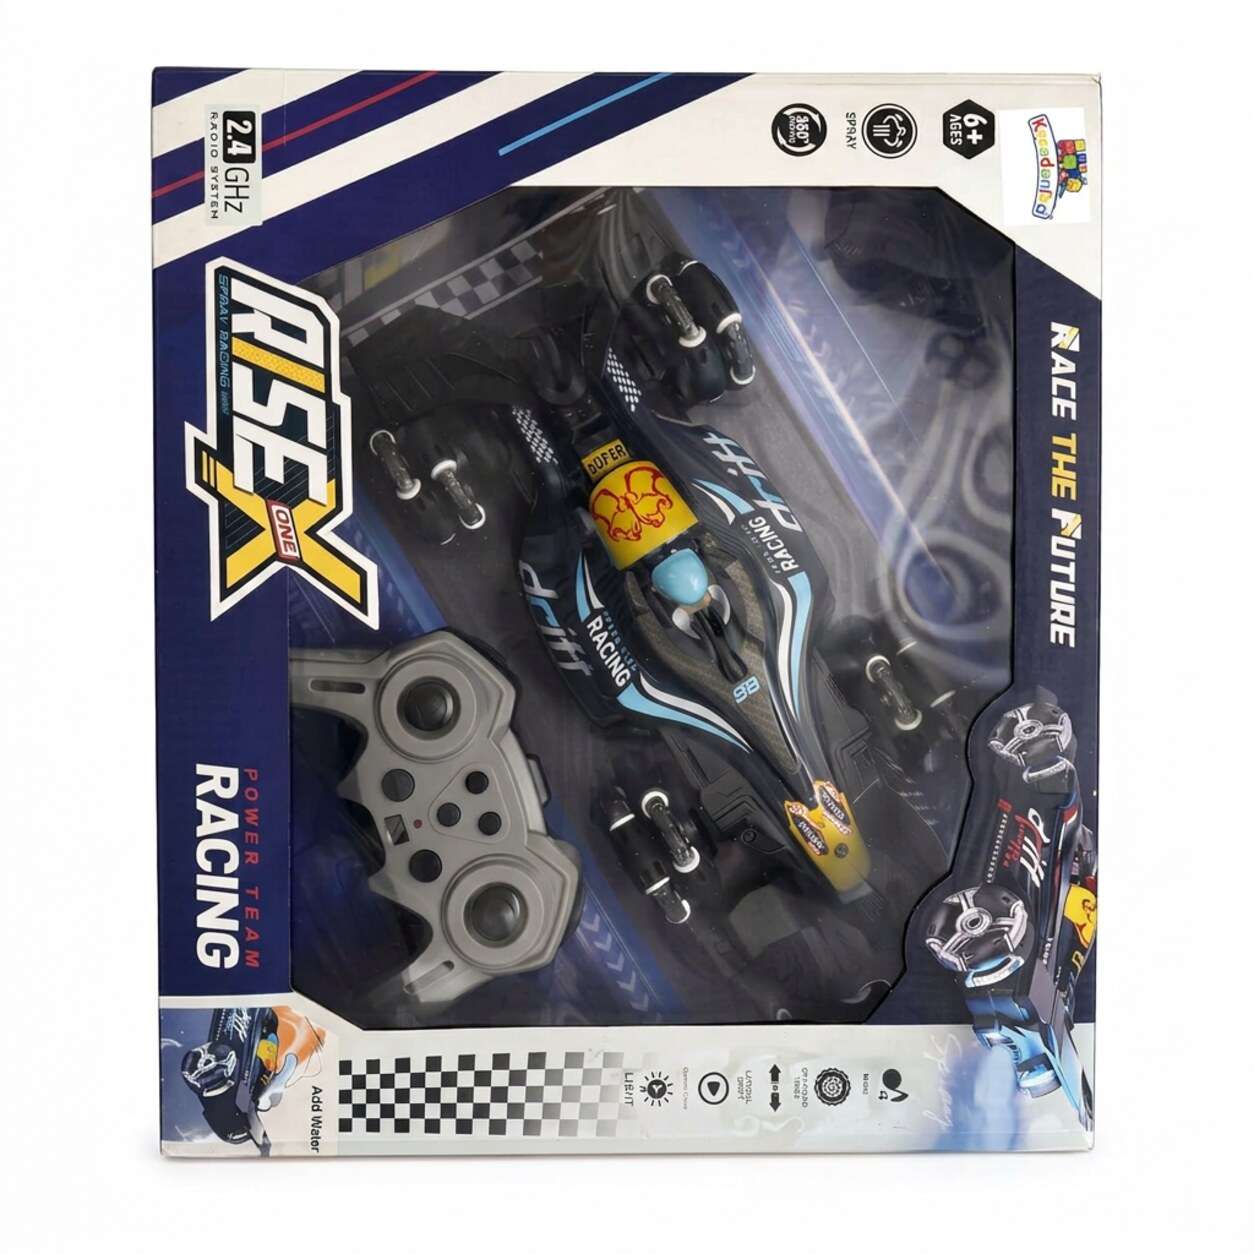
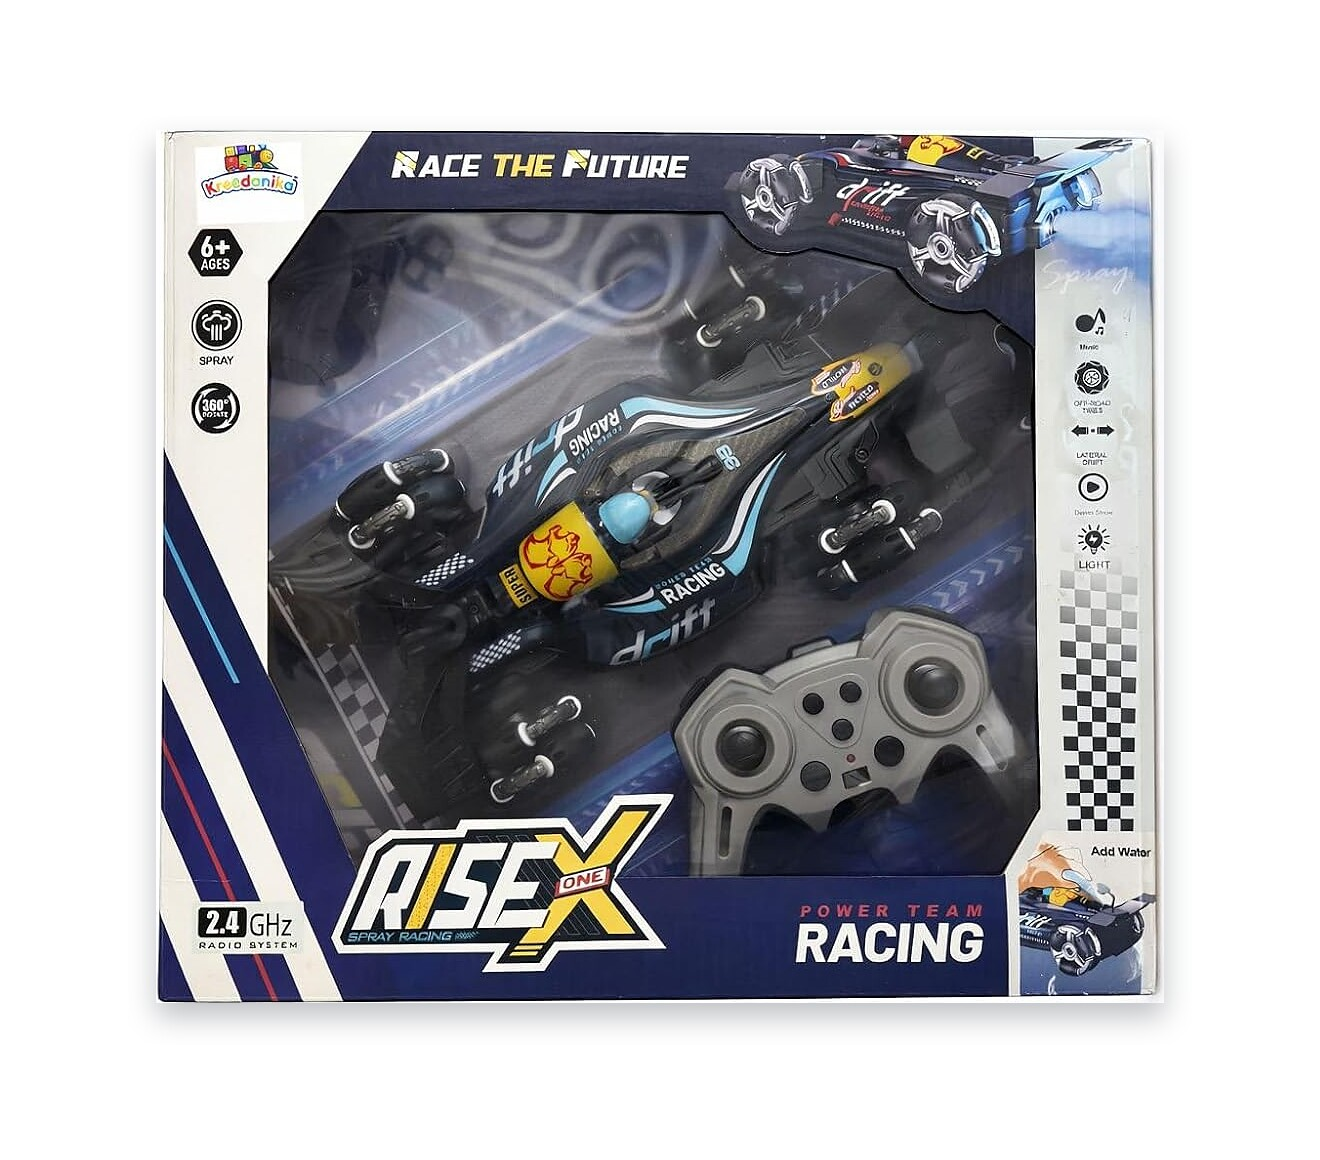
fix(rise-one-x-4x4): orient retail window box image upright

diff --git a/products/rise-one-x-4x4.html b/products/rise-one-x-4x4.html
@@ -45,7 +45,7 @@
       "https://redpoly.justsimpleapps.online/assets/images/redpoly/products/rise-one-x-4x4.webp?v=rise-20261122",
       "https://redpoly.justsimpleapps.online/assets/images/redpoly/products/rise-one-x-4x4-studio.jpg?v=rise-20261122",
       "https://redpoly.justsimpleapps.online/assets/images/redpoly/products/rise-one-x-4x4-scene.jpg?v=rise-20261122",
-      "https://redpoly.justsimpleapps.online/assets/images/redpoly/products/rise-one-x-4x4-box.jpg?v=rise-20261122",
+      "https://redpoly.justsimpleapps.online/assets/images/redpoly/products/rise-one-x-4x4-box.jpg?v=rise-20261122-v2",
       "https://redpoly.justsimpleapps.online/assets/images/redpoly/products/rise-one-x-4x4-box-back.jpg?v=rise-20261122"
     ],
     "color": "Dark navy, racing yellow, sky blue and black",
@@ -123,7 +123,7 @@
         <span class="char-spark char-spark--three" aria-hidden="true">&#9733;</span>
         <span class="char-spark char-spark--four" aria-hidden="true">&#10022;</span>
         <span class="char-spark char-spark--five" aria-hidden="true">&#9733;</span>
-        <img class="char-stage__figure" src="/assets/images/redpoly/products/rise-one-x-4x4.webp?v=rise-20261122" alt="Rise one X 4X4: navy, cyan and yellow F1 drift car with Speed WORLD and drift EXTREME SPEED livery, sky-blue driver helmet and four grey mecanum roller wheels." width="1291" height="642" fetchpriority="high" data-label="OUT OF THE BOX" data-alt-label="RETAIL BOX" data-alt-src="/assets/images/redpoly/products/rise-one-x-4x4-box.jpg?v=rise-20261122" data-alt-text="Rise one X 4X4 window box with the navy F1 drift car, grey 2.4 GHz gamepad remote and wrist strap controller inside." />
+        <img class="char-stage__figure" src="/assets/images/redpoly/products/rise-one-x-4x4.webp?v=rise-20261122" alt="Rise one X 4X4: navy, cyan and yellow F1 drift car with Speed WORLD and drift EXTREME SPEED livery, sky-blue driver helmet and four grey mecanum roller wheels." width="1291" height="642" fetchpriority="high" data-label="OUT OF THE BOX" data-alt-label="RETAIL BOX" data-alt-src="/assets/images/redpoly/products/rise-one-x-4x4-box.jpg?v=rise-20261122-v2" data-alt-text="Rise one X 4X4 window box with the navy F1 drift car, grey 2.4 GHz gamepad remote and wrist strap controller inside." />
         <div class="char-media char-media--stage">
           <button class="char-media__card" type="button" data-media-open aria-haspopup="dialog" aria-controls="media-viewer" aria-label="Open the Rise one X 4X4 gallery, six items including the YouTube demo video">
             <span class="char-media__thumb"><img src="/assets/images/redpoly/products/rise-one-x-4x4-thumb.webp?v=rise-20261122" alt="" width="480" height="239" loading="lazy" /><span class="char-media__play" aria-hidden="true">&#9654;</span></span>
@@ -183,7 +183,7 @@
 
     <section class="char-box" aria-labelledby="char-box-title">
       <div class="char-box__inner">
-        <a class="char-box__photo" href="/assets/images/redpoly/products/rise-one-x-4x4-box.jpg?v=rise-20261122" target="_blank" rel="noopener" aria-label="Open the Rise one X 4X4 retail window box photo at full size"><img src="/assets/images/redpoly/products/rise-one-x-4x4-box.jpg?v=rise-20261122" alt="Rise one X 4X4 printed retail window box showing the dark navy F1 car, grey 2.4 GHz gamepad remote and wrist controller behind the clear front window." width="1254" height="1254" loading="lazy" /></a>
+        <a class="char-box__photo" href="/assets/images/redpoly/products/rise-one-x-4x4-box.jpg?v=rise-20261122-v2" target="_blank" rel="noopener" aria-label="Open the Rise one X 4X4 retail window box photo at full size"><img src="/assets/images/redpoly/products/rise-one-x-4x4-box.jpg?v=rise-20261122-v2" alt="Rise one X 4X4 printed retail window box showing the dark navy F1 car, grey 2.4 GHz gamepad remote and wrist controller behind the clear front window." width="1320" height="1160" loading="lazy" /></a>
         <div class="char-box__copy">
           <p class="char-overline">HOW IT ARRIVES</p>
           <h2 id="char-box-title">RACE READY,<br /><span>WINDOW BOX.</span></h2>
@@ -279,7 +279,7 @@
         <li data-type="image" data-src="/assets/images/redpoly/products/rise-one-x-4x4-studio.jpg?v=rise-20261122" data-alt="Rise one X 4X4 car shown with its grey 2.4 GHz gamepad remote and wrist gesture controller on a crisp white studio sweep" data-caption="FULL SET &middot; CAR + GAMEPAD + WRIST SENSOR"></li>
         <li data-type="youtube" data-src="https://www.youtube.com/watch?v=u0_lRVAbW_U" data-poster="/assets/images/redpoly/products/rise-one-x-4x4-scene.jpg?v=rise-20261122" data-alt="Rise one X 4X4 official spray drift and 360-degree stunt demo video" data-caption="VIDEO DEMO &middot; RISE ONE X 4X4 IN ACTION"></li>
         <li data-type="image" data-src="/assets/images/redpoly/products/rise-one-x-4x4-scene.jpg?v=rise-20261122" data-alt="Rise one X 4X4 drifting across dark evening asphalt with illuminated icy-blue exhaust mist" data-caption="IN ACTION &middot; LATERAL DRIFT &amp; EXHAUST SPRAY"></li>
-        <li data-type="image" data-src="/assets/images/redpoly/products/rise-one-x-4x4-box.jpg?v=rise-20261122" data-alt="Rise one X 4X4 clear window retail box containing the F1 drift car, gamepad remote and wrist controller" data-caption="HOW IT ARRIVES &middot; WINDOW BOX"></li>
+        <li data-type="image" data-src="/assets/images/redpoly/products/rise-one-x-4x4-box.jpg?v=rise-20261122-v2" data-alt="Rise one X 4X4 clear window retail box containing the F1 drift car, gamepad remote and wrist controller" data-caption="HOW IT ARRIVES &middot; WINDOW BOX"></li>
         <li data-type="image" data-src="/assets/images/redpoly/products/rise-one-x-4x4-box-back.jpg?v=rise-20261122" data-alt="Back of the Rise one X 4X4 box showing remote control instructions, battery details and spray icons" data-caption="PACKAGING BACK &middot; CONTROLS &amp; BATTERY GUIDE"></li>
         <li data-type="image" data-src="/assets/images/redpoly/products/rise-one-x-4x4.webp?v=rise-20261122" data-alt="Rise one X 4X4 F1 spray drift car cutout" data-caption="OUT OF THE BOX &middot; &#8377;1,499"></li>
       </ul>
